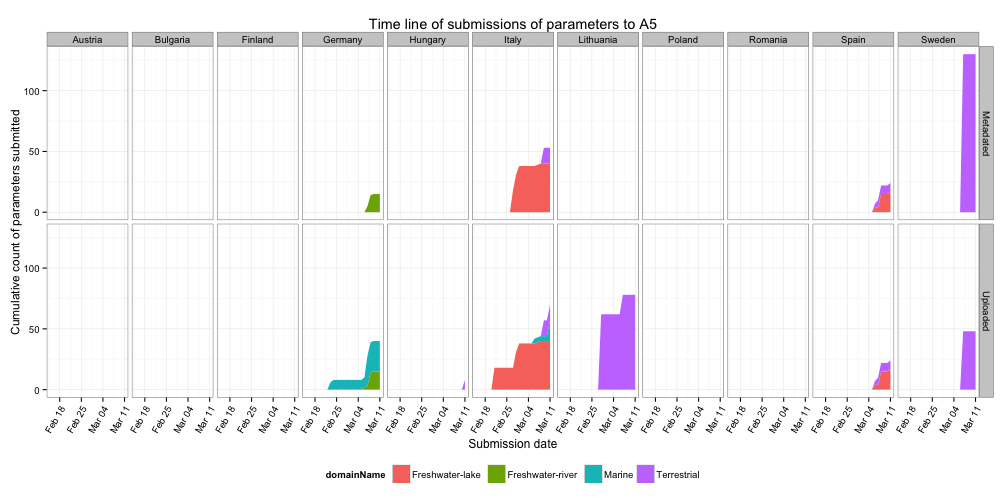
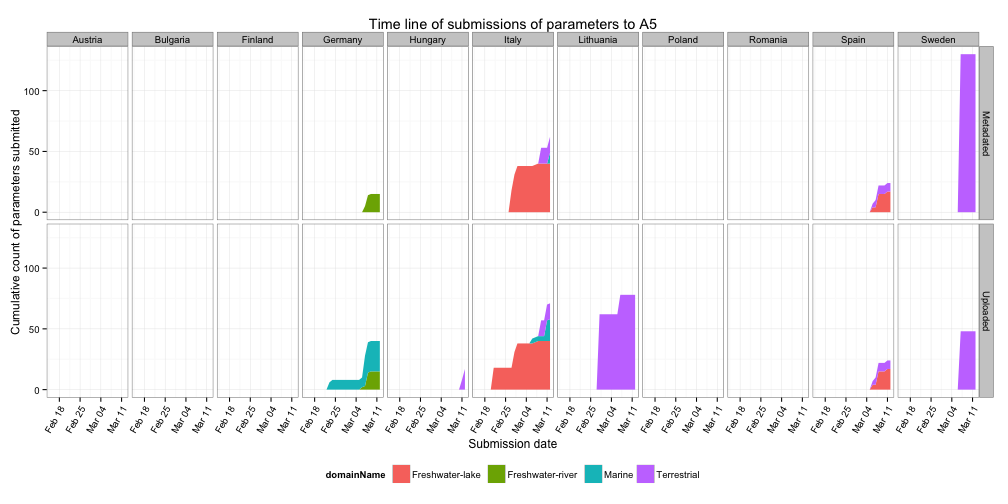
publishing deck

diff --git a/index.html b/index.html
@@ -48,9 +48,9 @@
   </hgroup>
   <article>
     <ul>
-<li>Last updated <code>2013-03-11</code></li>
+<li>Last updated <code>2013-03-12</code></li>
 <li>Deadline for data submission: <code>2013-03-08</code></li>
-<li>Days to deadline: <code>-3</code></li>
+<li>Days to deadline: <code>-4</code></li>
 <li>Total number of sites sampled in 2012: <code>61</code>; sub-sites: <code>65</code></li>
 </ul>
 
@@ -58,13 +58,13 @@
 
 <!-- html table generated in R 2.15.3 by xtable 1.7-0 package -->
 
-<!-- Mon Mar 11 22:35:00 2013 -->
+<!-- Tue Mar 12 21:17:12 2013 -->
 
 <TABLE border=1>
 <TR> <TH>  </TH> <TH> No. uploaded </TH> <TH> No. metadated </TH> <TH> Total no. </TH> <TH> Upload ratio </TH> <TH> Metadata ratio </TH>  </TR>
-  <TR> <TD align="right"> Year2012 </TD> <TD align="right"> 189 </TD> <TD align="right"> 174 </TD> <TD align="right"> 2025 </TD> <TD align="right"> 0.09 </TD> <TD align="right"> 0.09 </TD> </TR>
+  <TR> <TD align="right"> Year2012 </TD> <TD align="right"> 199 </TD> <TD align="right"> 183 </TD> <TD align="right"> 2025 </TD> <TD align="right"> 0.10 </TD> <TD align="right"> 0.09 </TD> </TR>
   <TR> <TD align="right"> Year2011 </TD> <TD align="right">  79 </TD> <TD align="right">  48 </TD> <TD align="right"> 265 </TD> <TD align="right"> 0.30 </TD> <TD align="right"> 0.18 </TD> </TR>
-  <TR> <TD align="right"> Sum </TD> <TD align="right"> 268 </TD> <TD align="right"> 222 </TD> <TD align="right"> 2290 </TD> <TD align="right"> 0.12 </TD> <TD align="right"> 0.10 </TD> </TR>
+  <TR> <TD align="right"> Sum </TD> <TD align="right"> 278 </TD> <TD align="right"> 231 </TD> <TD align="right"> 2290 </TD> <TD align="right"> 0.12 </TD> <TD align="right"> 0.10 </TD> </TR>
    </TABLE>
 
   </article>

diff --git a/index.md b/index.md
@@ -26,19 +26,19 @@ github:
 
 ## State of uploading process
 
-* Last updated ``2013-03-11``
+* Last updated ``2013-03-12``
 * Deadline for data submission: `2013-03-08`
-* Days to deadline: ``-3``
+* Days to deadline: ``-4``
 * Total number of sites sampled in 2012: ``61``; sub-sites: ``65``
 
 Parameters uploaded and metadated:
 <!-- html table generated in R 2.15.3 by xtable 1.7-0 package -->
-<!-- Mon Mar 11 22:35:00 2013 -->
+<!-- Tue Mar 12 21:17:12 2013 -->
 <TABLE border=1>
 <TR> <TH>  </TH> <TH> No. uploaded </TH> <TH> No. metadated </TH> <TH> Total no. </TH> <TH> Upload ratio </TH> <TH> Metadata ratio </TH>  </TR>
-  <TR> <TD align="right"> Year2012 </TD> <TD align="right"> 189 </TD> <TD align="right"> 174 </TD> <TD align="right"> 2025 </TD> <TD align="right"> 0.09 </TD> <TD align="right"> 0.09 </TD> </TR>
+  <TR> <TD align="right"> Year2012 </TD> <TD align="right"> 199 </TD> <TD align="right"> 183 </TD> <TD align="right"> 2025 </TD> <TD align="right"> 0.10 </TD> <TD align="right"> 0.09 </TD> </TR>
   <TR> <TD align="right"> Year2011 </TD> <TD align="right">  79 </TD> <TD align="right">  48 </TD> <TD align="right"> 265 </TD> <TD align="right"> 0.30 </TD> <TD align="right"> 0.18 </TD> </TR>
-  <TR> <TD align="right"> Sum </TD> <TD align="right"> 268 </TD> <TD align="right"> 222 </TD> <TD align="right"> 2290 </TD> <TD align="right"> 0.12 </TD> <TD align="right"> 0.10 </TD> </TR>
+  <TR> <TD align="right"> Sum </TD> <TD align="right"> 278 </TD> <TD align="right"> 231 </TD> <TD align="right"> 2290 </TD> <TD align="right"> 0.12 </TD> <TD align="right"> 0.10 </TD> </TR>
    </TABLE>
 
 
